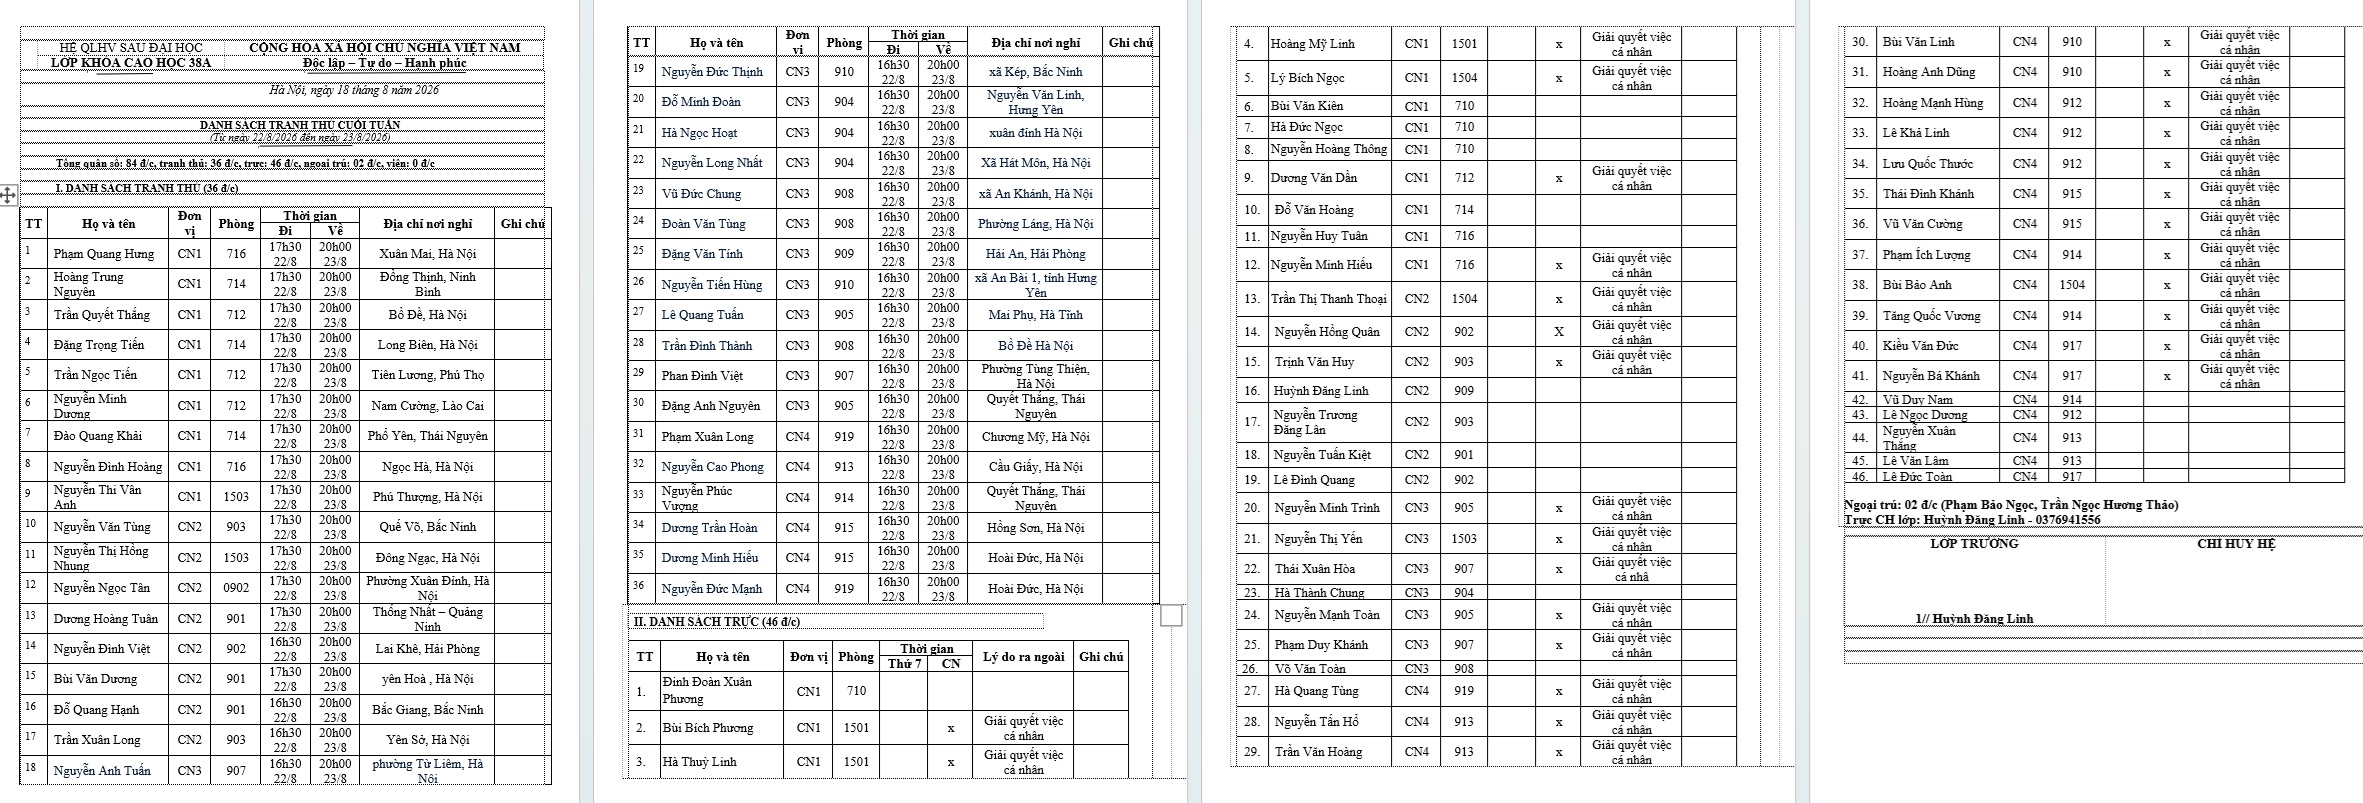
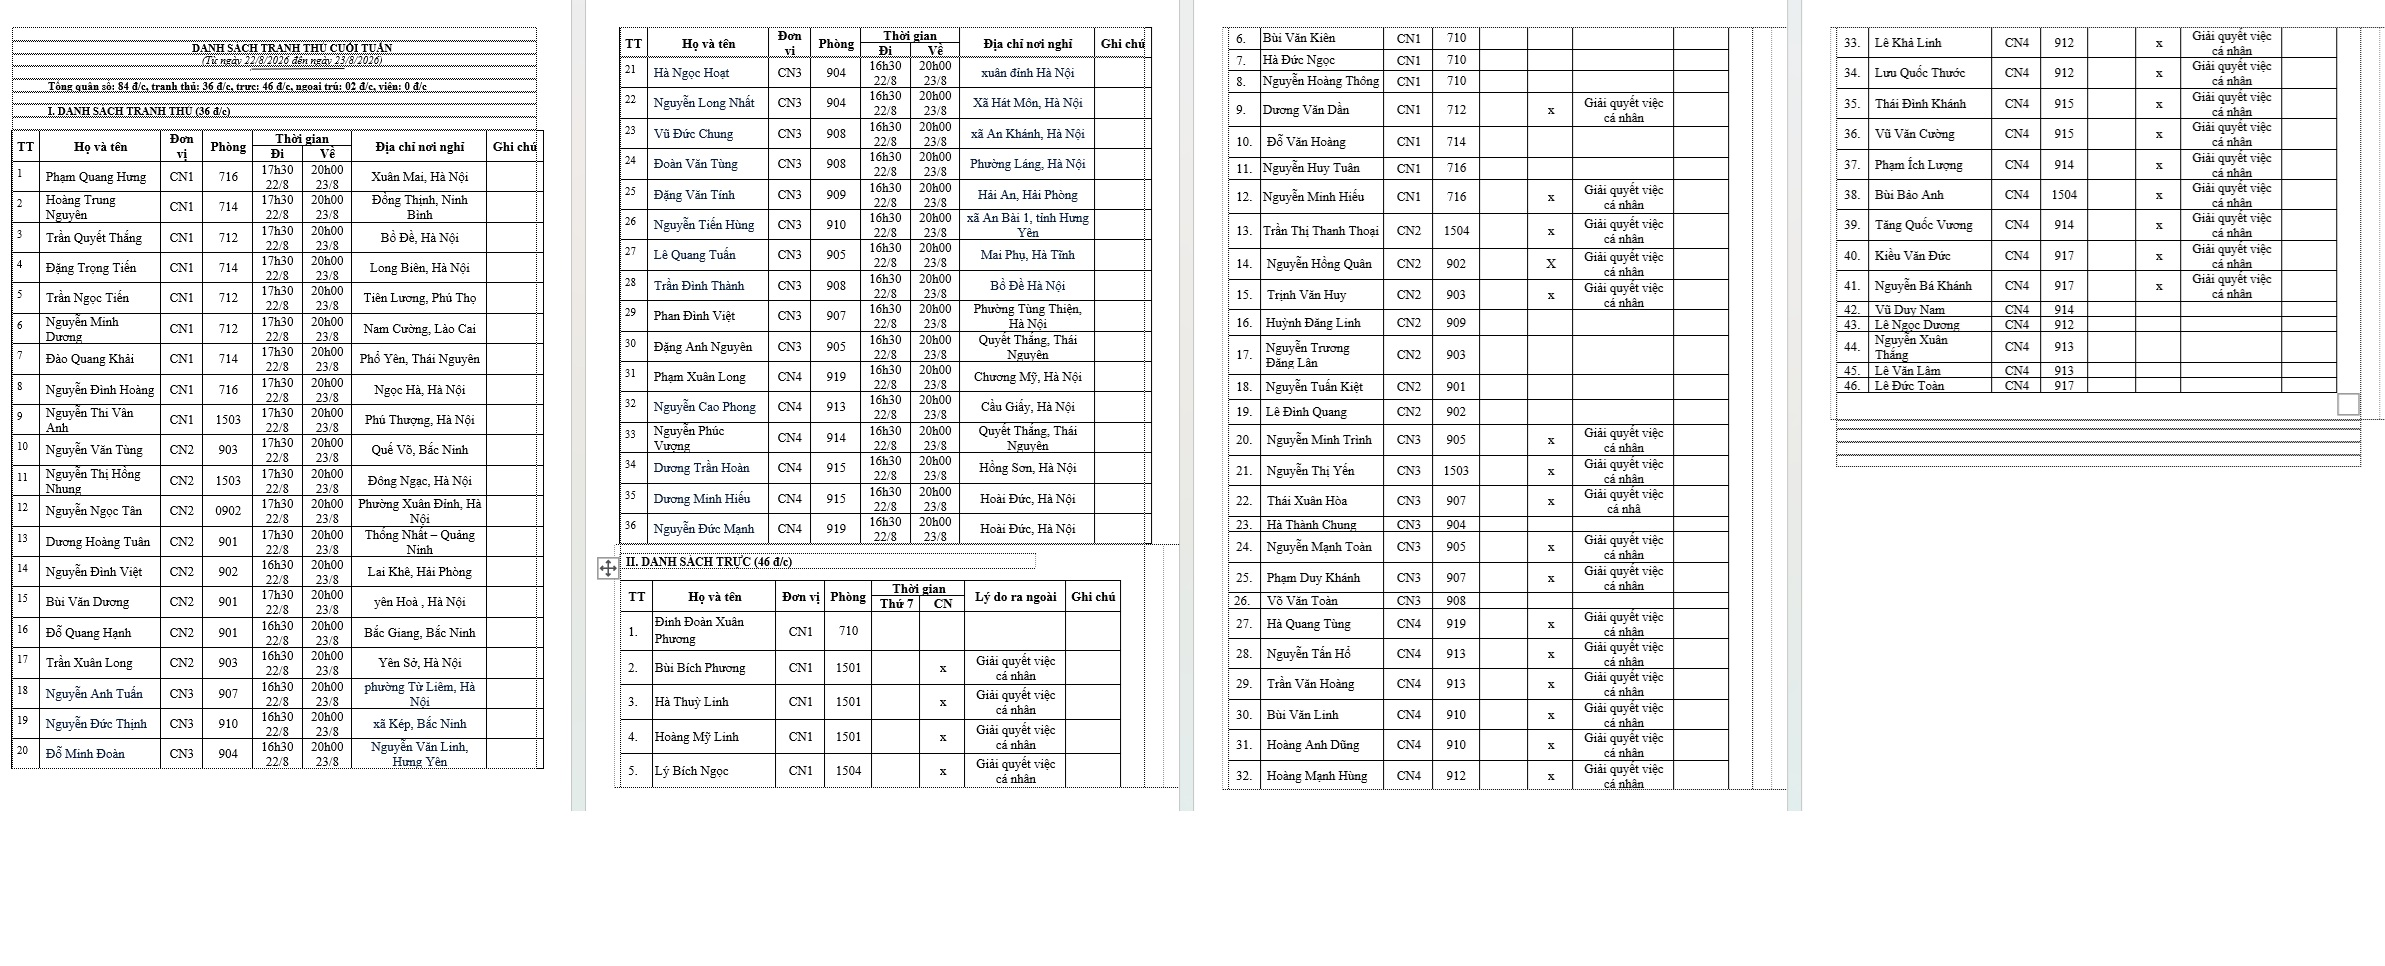
Update after comment

Changed region(s): [[0.0, 0.0, 1.0, 1.0], [0.4016, 0.8717, 0.4634, 0.9651], [0.9577, 0.5604, 0.9886, 0.5915]]

diff --git a/index.html b/index.html
@@ -152,14 +152,12 @@
         </div>
 
         <!-- 5. Lịch Gác & Trực ban -->
-        <div id="trucban" class="section">
-            <h2>Lịch Gác & Trực ban</h2>            
-            <!-- Đổi id thành class="zoom-container" -->
+        <!-- <div id="trucban" class="section">
+            <h2>Lịch Gác & Trực ban</h2>  
             <div class="zoom-container" style="margin-top: 20px; overflow: auto; max-height: 600px; border-radius: 8px; border: 1px solid #ccc; box-shadow: 0 2px 10px rgba(0,0,0,0.05); background: #f8f9fa;">                
-                <!-- Đổi id thành class="zoom-image" -->
                 <img class="zoom-image" src="LICH_TRUC_BAN_VA_GAC_THANG_9.2026_HE_2.jpg" alt="Danh sách truc ban" draggable="false" style="width: 100%; min-width: 100%; display: block; transition: width 0.15s ease-out;">
             </div>
-        </div>
+        </div> -->
 
         <!-- 6. Thời khóa biểu -->
         <div id="tkb" class="section">
@@ -185,11 +183,12 @@
                 <p>+ 05h45: Báo quân số ăn cơm muộn buổi trưa và ký nhận sữa.</p>    
                 <p>+ 13h30: Báo quân số trực ban Hệ (có thể báo buổi sáng sau 10h30)</p>    
 
-            <h2>KHU VỰC VỆ SINH</h2>
+            
+            <!-- <h2>KHU VỰC VỆ SINH</h2>
                 <div class="zoom-container" style="margin-top: 20px; overflow: auto; max-height: 1000px; border-radius: 8px; border: 1px solid #ccc; box-shadow: 0 2px 10px rgba(0,0,0,0.05); background: #f8f9fa;">                
-                <!-- Đổi id thành class="zoom-image" -->
                 <img class="zoom-image" src="KVVS.jpg" alt="Phan cong khu vuc ve sinh" draggable="false" style="width: 100%; min-width: 100%; display: block; transition: width 0.15s ease-out;">
-            </div>            
+            </div>    -->
+                  
         </div>
 
     </div>
